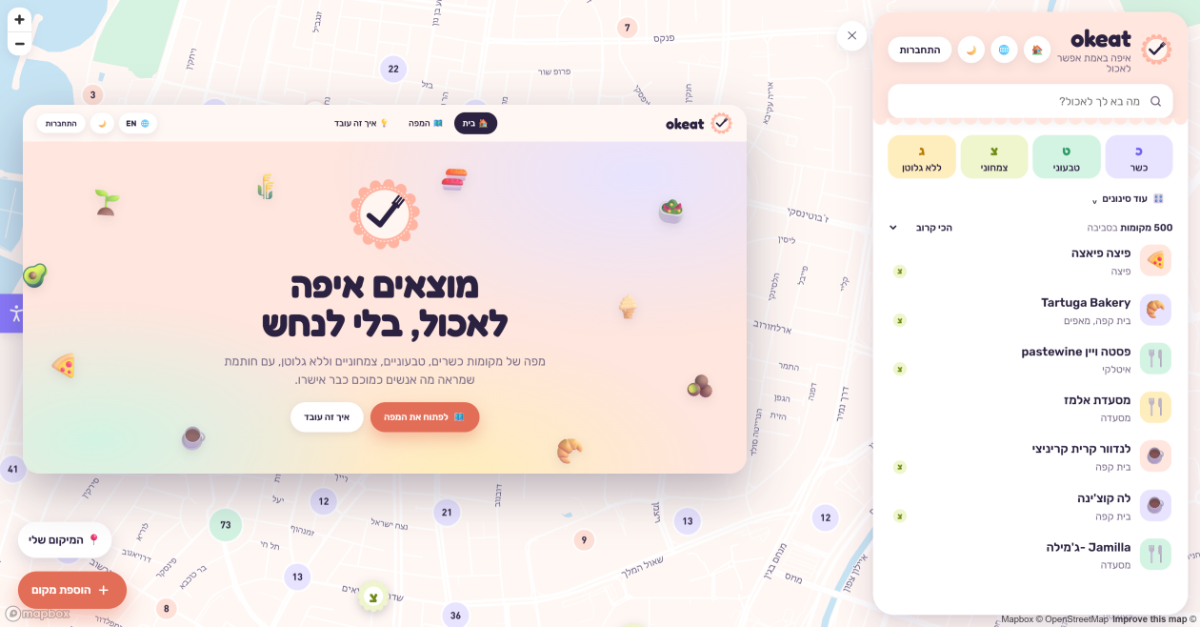
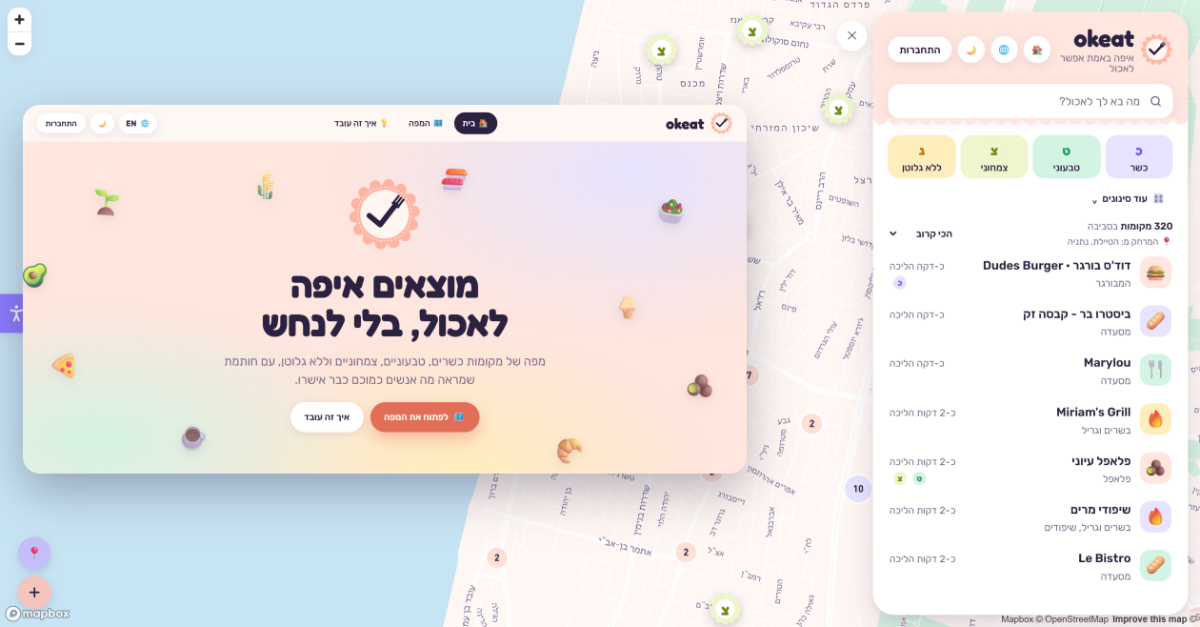
Center header links

diff --git a/src/app/globals.css b/src/app/globals.css
@@ -2254,3 +2254,11 @@ a.dash-city { color: inherit; text-decoration: none; }
 .food-groups .cuisine { cursor: pointer; user-select: none; -webkit-user-select: none; touch-action: manipulation; -webkit-tap-highlight-color: transparent; }
 .food-groups .cuisine[aria-pressed="true"] { background: var(--peach); color: #2B2140; font-weight: 700; box-shadow: 0 4px 10px color-mix(in srgb, var(--peach-deep) 30%, transparent); }
 .food-groups .cuisine:active { transform: scale(.95); }
+
+/* Computer: Home, Map and How it works sit exactly in the middle, whatever the width of the logo and the buttons on the sides */
+@media (min-width: 768px) {
+  .site-head { display: grid; grid-template-columns: 1fr auto 1fr; }
+  .site-head .brand-link { justify-self: start; }
+  .site-head nav { justify-self: center; flex-wrap: nowrap; }
+  .site-head .site-tools { justify-self: end; }
+}
